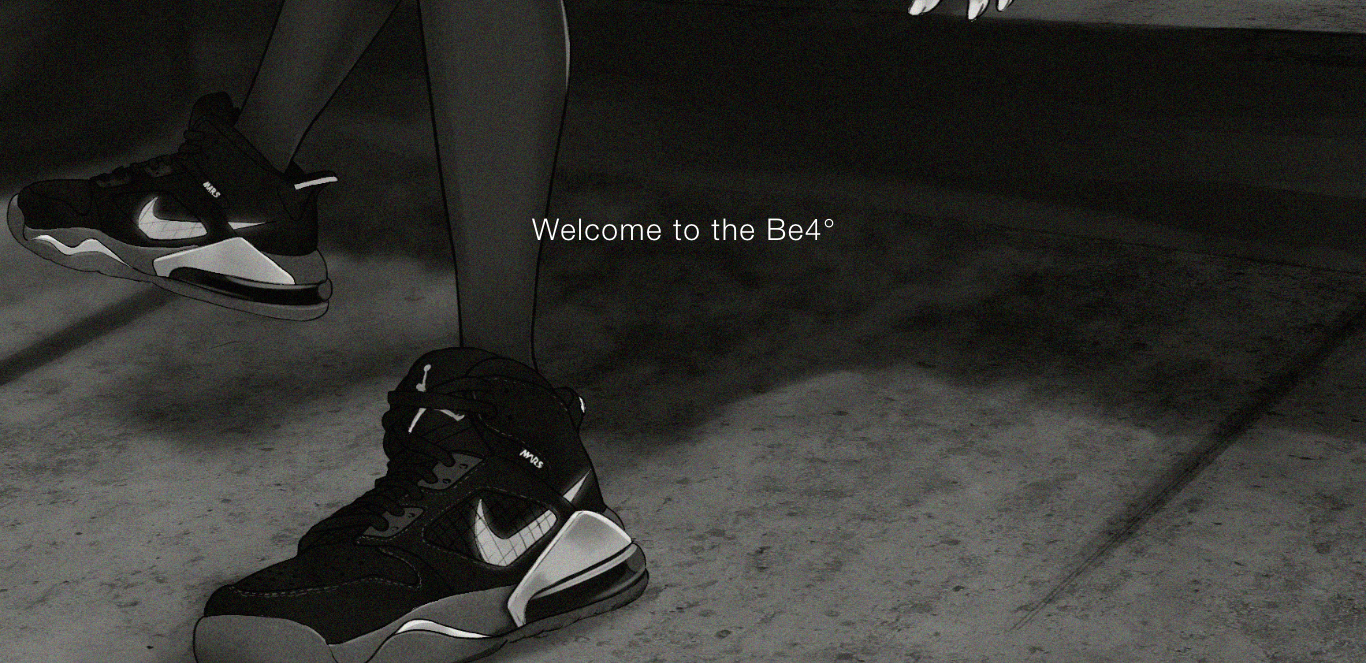
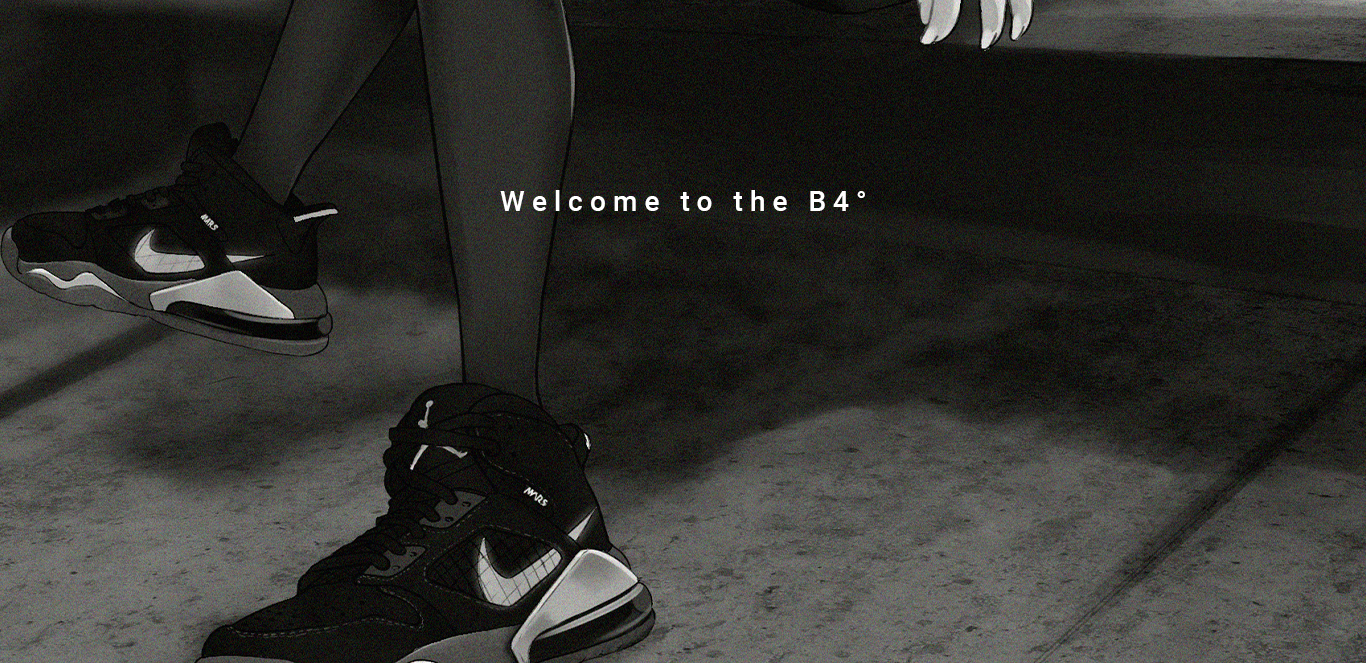
fix : LP画像変更。
あとMemberのリファクタ

diff --git a/src/views/Member.vue b/src/views/Member.vue
@@ -14,44 +14,74 @@
             class="kies"
             @click="onClickIcon($refs.kies)"
           >
-            <transition appear name="top">
+            <transition
+              appear
+              name="top"
+            >
               <img src="@/assets/img/icon_kies.png"/>
             </transition>
-            <transition appear name="top">
+            <transition
+              appear
+              name="top"
+            >
               <p>春風Kieß</p>
             </transition>
-            <transition appear name="top">
+            <transition
+              appear
+              name="top"
+            >
               <p>writer</p>
             </transition>
           </div>
         </transition>
         <!-- Yussiy -->
-        <transition appear name="bottom">
+        <transition
+          appear
+          name="bottom"
+        >
           <div
             class="yussiy"
             @click="onClickIcon($refs.yussiy)"
           >
-            <transition appear name="bottom">
+            <transition
+              appear
+              name="bottom"
+            >
               <img src="@/assets/img/icon_yussiy.png"/>
             </transition>
-            <transition appear name="bottom">
+            <transition
+              appear
+              name="bottom"
+            >
               <p>Yussiy</p>
             </transition>
-            <transition appear name="bottom">
+            <transition
+              appear
+              name="bottom"
+            >
               <p>engineer</p>
             </transition>
           </div>
         </transition>
         <!-- セカ -->
-        <transition appear name="top">
+        <transition
+          appear
+          name="top"
+        >
           <div
             class="seka"
             @click="onClickIcon($refs.seka)"
           >
-            <transition appear name="top">
+            <transition
+              appear
+              name="top"
+            >
               <img src="@/assets/img/icon_seka.png"/>
             </transition>
-            <transition appear name="top">
+            <transition
+              appear
+              name="top"
+            >
               <p>セカ</p>
             </transition>
             <transition appear name="top">
@@ -60,32 +90,53 @@
           </div>
         </transition>
         <!-- Rafits -->
-        <transition appear name="bottom">
+        <transition
+          appear
+          name="bottom"
+        >
           <div
             class="rafits"
             @click="onClickIcon($refs.rafits)"
           >
-            <transition appear name="bottom">
+            <transition
+              appear
+              name="bottom"
+            >
               <img src="@/assets/img/icon_rafits.png"/>
             </transition>
-            <transition appear name="bottom">
+            <transition
+              appear
+              name="bottom"
+            >
               <p>Rafits</p>
             </transition>
-            <transition appear name="bottom">
+            <transition
+              appear
+              name="bottom"
+            >
               <p>engineer</p>
             </transition>
           </div>
         </transition>
         <!-- Qued -->
-        <transition appear name="top">
+        <transition
+          appear
+          name="top"
+        >
           <div
             class="qued"
             @click="onClickIcon($refs.qued)"
           >
-            <transition appear name="top">
+            <transition
+              appear
+              name="top"
+            >
               <img src="@/assets/img/icon_qued.jpg"/>
             </transition>
-            <transition appear name="top">
+            <transition
+              appear
+              name="top"
+            >
               <p>Qued</p>
             </transition>
             <transition appear name="top">
